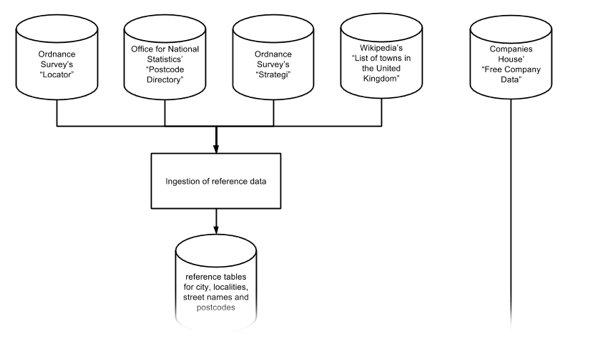
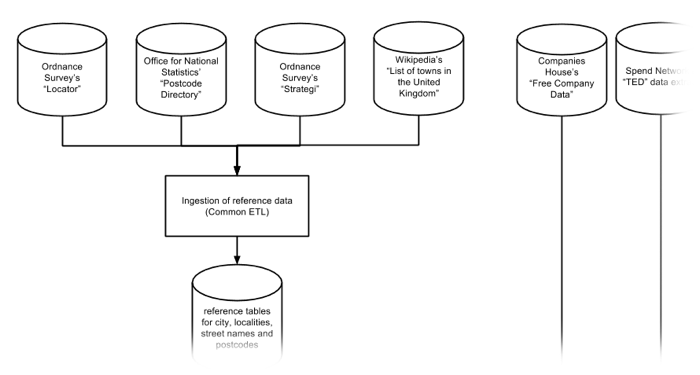
Revised documentation for Alpha-4

Changed region(s): [[0.0, 0.0296, 0.96, 0.9467]]

diff --git a/app/views/static/about/docs.md b/app/views/static/about/docs.md
@@ -3,9 +3,9 @@ title: Technology
 layout: default
 ---
 
-This document describes the Open Addresses solution for the *Alpha* stage. It was last updated on 12 December 2014.
+This document describes the Open Addresses solution for the *Alpha-4* phase (23 February 2015). It was last updated on 20 February 2015.
 
-The description follows the flow of data processing from its third party Open Data or public data sources down through the final Open Addresses database.
+The description follows the flow of data processing from its third party public domain or open data sources down through the final Open Addresses database.
 
 <%= link_to image_tag("docs/data_workflow_preview.png"), image_path("docs/data_workflow.png") %>
 
@@ -14,25 +14,28 @@ Click on the diagram to see the full version.
 ##Table of Contents
 
 - <a href='#sources'>Our sources of data</a>
-- <a href='#etls'>The ETL software modules ("Extract, Transform, Load")</a>
+- <a href='#etls'>The Submission APIs and the ETL software modules ("Extract, Transform, Load")</a>
+- <a href='#sortingoffice'>Sorting Office</a>
 - <a href='#ingester'>The Ingester software module</a>
 - <a href='#distiller'>The Distiller software module</a>
 - <a href='#publishingapis'>The publishing APIs</a>
 - <a href='#downloadable'>The downloadable Open Addresses database</a>
+- <a href='#validationapis'>The validation APIs</a>
 - <a href='#provenance'>How provenance is documented</a>
 
 <h2 id='sources'>Our sources of data</h2>
 
-Open Addresses uses two types of data:
+Open Addresses uses three types of data:
 
-- **reference data**, such as list of valid post towns or postcodes, and
-- **addresses**.
+- **reference data** of address "building blocks" such as post towns or postcodes,
+- **addresses**, and
+- **validation data**.
 
-All of the data that we use is either free of third-party Intellectual Property (IP) or is fully openly licensed. All provenance is tracked.
+All of the data that we use is either free of third-party Intellectual Property Rights (IPR) or is fully licensed as open data with no constraints but for attribution. This is to assure compatibility with the licence we apply to the data Open Addresses publishes, that is [CC-BY 4.0 International](https://creativecommons.org/licenses/by/4.0/). Some candidate sources of addresses could not be used as they included third party IP that is not openly licensed. Find out more about these challenges and how you can help add more data in [this blog post](https://alpha.openaddressesuk.org/blog/2015/01/26/making-address-data-safe) or on our [Get Involved](/about/involved/) page.
 
 ###Reference data
 
-For the Alpha phase we used four reference datasets:
+For the Alpha-4 phase we used four reference datasets for the addresses' "building blocks":
 
 - [Ordnance Survey's "OS Locator"](http://www.ordnancesurvey.co.uk/business-and-government/products/os-locator.html), from which we source our reference table of **road names**.
 - [Ordnance Survey's "Strategi"](http://www.ordnancesurvey.co.uk/business-and-government/products/strategi.html), from which we source our reference table of **settlements (localities)**.
@@ -40,52 +43,74 @@ For the Alpha phase we used four reference datasets:
 - The [Office for National Statistics' "ONS Postcode Directory (ONSPD)"](http://www.ons.gov.uk/ons/guide-method/geography/products/postcode-directories/-nspp-/index.html), from which we source our reference table of **postcodes**. Note that Northern Ireland's postcodes are dropped from the reference data as ["a separate licence for commercial use is required, direct from the Irish Land and Property Services"](http://www.ons.gov.uk/ons/guide-method/geography/beginner-s-guide/licences/index.html).
 
 ###Address data
-The current platform uses a single address dataset as its source: [Companies House's "Free Company Data Product"](http://download.companieshouse.gov.uk/en_output.html).
+Address data is either ingested from public domain/open data sources or submitted by our contributors, interactively or through APIs.
 
-Companies House's Free Company Data Product [does not include third party IP](https://www.whatdotheyknow.com/request/free_company_data_third_party_in).
+Alpha-4 uses two bulk sources for ingestion:
 
-Some other candidate sources of addresses could not be used as they included third party IP that is not openly licensed.
+- [Companies House's "Free Company Data Product"](http://download.companieshouse.gov.uk/en_output.html), and
+- An extract of [Spend Network's historical "TED" data](https://drive.google.com/folderview?id=0B46kGZDllbTKfjdMaU5OeXB2Qk1jaGhxNU9NUk5zRndlMDE3cWFTMF9YYnI1eXNHdmkyTUE&usp=sharing)
 
-Find out more about these challenges and how you can help add more data on our [Get Involved](/about/involved/) page.
+Both sources have been assessed not to include third party IP or to be appropriately licensed for re-use. In Company House's case, this was done throuh [FOI](https://www.whatdotheyknow.com/request/free_company_data_third_party_in).
+
+Our contributors can submit addresses interactively using our [website](https://openaddressesuk.org) or using the [Sorting Office](https://sorting-office.openaddressesuk.org/) APIs and website.
+
+###Validation data
+Validation data is collected from our contributors interactively using our website or through APIs. Anybody can state if one of the address we publish exists or not. This information is then used to calculate the confidence score we associate to each addreess or building blocks.
 
 ###Updating the data
-Each of the sources described above are currently maintained and updated regularly by their respective publishers. It can happen, though, that they do not account for recent changes, such as new streets. During Beta we will be updating the data on a daily basis.
+Apart from Spend Network's data, that was a one-off contribution, each of the sources described above are currently maintained and updated regularly by their respective publishers. It can happen, though, that they do not account for recent changes, such as new streets. During Beta we will be updating the reference data and bulk source data every time they are changed.
 
-It is important to note that, for Open Addresses' Alpha stage, we also decided to ignore addresses that cannot be matched against any of the reference tables. This approach will change during the Beta stage, when we will calculate mathematically the statistical confidence that can be placed in each  address and address component.
+It is important to note that, for the time being, we also decided to ignore addresses whose building blocks (towns, street names...) cannot be matched against their respective reference tables. This approach will change in [future developments](https://github.com/OpenAddressesUK/roadmap/issues/81).
 
-<h2 id='etls'>The ETL software modules</h2>
+<h2 id='etls'>The Submission APIs and the ETL software modules</h2>
 
 ###The Common ETL
-The reference data created from its sources described above by the software component we call *common ETL* (ETL as in "Extract, Transform, Load"). We consider the data highly reliable, hence it goes through minimal processing before being published by the platform.
+The reference data created from its sources described above by the software component we call *common ETL* (ETL as in "Extract, Transform, Load"). We consider the data highly reliable, hence it goes through minimal processing before being used by the platform.
 
-You are welcome to review or contribute to the current version of the Distiller on GitHub [here](https://github.com/OpenAddressesUK/common-ETL).
+You are welcome to review or contribute to the current version of the Common ETL on GitHub [here](https://github.com/OpenAddressesUK/common-ETL).
+
+###The submission APIs (Turbot)
+All ELTs but for the Common ETL described above run on a shared submission management platform implemented using Turbot: an open source software originally designed by [Open Corporates](https://opencorporates.com/) to manage their own data ingestion processes. Contributors can first develop and test their own ETLs "at home" and then deploy them to Turbot, where they will be verified by our team and scheduled to run periodically.
+
+For the time being, Open Addresses uses a fork of the original Turbot; it is our ambition to merge our effort with Open Corporates' later in time.
+
+You are welcome to review or contribute to the our version of Turbot on GitHub [here](https://github.com/OpenAddressesUK/turbot-client) for the command line client and [here](https://github.com/OpenAddressesUK/turbot-runner) for the "runner" component.
 
 ###The Companies House ETL
 The software component that is responsible for interpreting Companies House Free Company Data Product for use in Open Addresses is the *Companies House ETL*. The addresses are stored as "free text" in the source, so an important responsibility of the ETL is to decompose the addresses in their components and normalise each of the components vs the reference tables, wherever suitable. As described above, addresses that cannot be matched vs the reference tables are discarded.
 
-You are welcome to review or contribute to the current version of the Distiller on GitHub [here](https://github.com/OpenAddressesUK/common-ETL).
+You are welcome to review a past version of the Companies House ETL on GitHub [here](https://github.com/OpenAddressesUK/common-ETL). The software is currently being rewritten to run within Turbot.
+
+###Open Addresses' own inference “engine”
+Some ETLs can be dedicated to "inferrring" addresses rather than ingesting it from one source or another. [Inference is the process by which we infer the existence of addresses from data we have about _other_ addresses](https://openaddressesuk.org/blog/2015/02/12/inference). Open Addresses' own inference engine will soon implement a basic algorithm described [here](https://github.com/theodi/shared/issues/504#issuecomment-72818881) and potentially many inference implementations could be run in parallel as long as they are complementary to each other.
+
+<h2 id='sortingoffice'>Sorting Office</h2>
+Sorting Office is an independent software component we developed to provide address normalisation services internally to other Open Addresses software components but also externally, as an API. Users of Sorting Office can use it also to submit addresses as they normalise them.
 
 <h2 id='ingester'>The Ingester software module</h2>
 The Open Addresses solution is designed to support a distributed set of ETL modules in the future, many of which may not necessarily be owned directly by Open Addresses but contributed and operated by other individuals or organisations.
 
-The *Ingester* module - called internally "Ernest" in honour of Ernest Marples who was [postmaster general at the time of the introduction of postcodes in the UK](http://en.wikipedia.org/wiki/Ernest_Marples) - is the interface between Open Addresses and this *ecosystem* of contributing ETLs. It provides a (soon to be) public API through which registered ETL modules will be able to submit addresses programmatically to our database of address submissions. Our own Companies House ETL module is run as if it was one of these third parties ETLs.
+The *Ingester* module - called internally "Ernest" in honour of Ernest Marples who was [postmaster general at the time of the introduction of postcodes in the UK](http://en.wikipedia.org/wiki/Ernest_Marples) - is the interface between Open Addresses and this *ecosystem* of contributing ETLs running on Turbot and the custodian of our "raw database".
 
-During Beta we will publish instructions on how to run your own ETL and interface the Ingester. During Alpha, the Companies House ETL and the Open Addresses website itself (through the form on the homepage) are the only ETLs enabled to submit addresses to the Ingester.
+We call it *raw* as we cannot make (yet) any general assumption on the quality of the addresses that are submitted to us to this point, but just store them for later processing. The Ingester's database need to be effective at dealing with large volumes of loosely structured, incomplete and duplicate addresses submissions.
 
-Data submitted through the Ingester is stored in what we call the "raw database". It's *raw* as we cannot make (yet) any general assumption on the quality of the addresses that are submitted to us, but just store them for later processing. The Ingester's database need to be effective at dealing with large volumes of loosely structured, incomplete and duplicate addresses submissions.
-
-It is also important for the Ingester to manage different submissions as if they were 'transactions'. This is useful, for example, in case we had concerns around any of the submission - e.g. their intellectual property - so that we can 'quarantine' that data while any necessary due diligence is performed.
+It is also important for the Ingester to manage different submissions as if they were 'transactions'. This is useful, for example, in case we had concerns around any of the submission - e.g. any intellectual property not licensed for our use - so that we can take down that data while any necessary due diligence is performed.
 
 You are welcome to review or contribute to the current version of the Ingester on GitHub [here](https://github.com/OpenAddressesUK/ernest).
 
 <h2 id='distiller'>The Distiller software module</h2>
 The Distiller module 'distills' the raw database into the best possible consistent set of addresses we can produce at the moment of execution.
 
-For Alpha, this mainly means identifying duplicates. For example data from Companies House can include more than one company registered at the same addresses.
+For Alpha-4, this mainly means:
 
-In Beta the Distiller's role will become much more substantial. It will detect misspellings and alternative spellings; manage contradicting sources for the same addresses; calculate rigorous statistical confidence in each address; define the provenance record for the derived address data accordingly; and possibly even do cross-ETL inference. For example, can we infer the existence of an address from the existence of other addresses submitted by different ETL modules and what level of confidence should be placed on it?
+- identifying (most) duplicates; for example, data from Companies House can include more than one company registered at the same addresses, and
+- document the provenance for the data from all the relevant information in the raw database.
+
+In upcoming releases the Distiller's role will become much more substantial. It will detect misspellings and alternative spellings; manage contradicting sources for the same addresses; calculate [statistical scoring](https://openaddressesuk.org/blog/2015/02/20/confidence) for each address and its building blocks etc.
 
 The Distiller is also responsible for creating unique identifiers for each unique component of all known addresses so that they can be referenced in a linked data fashion and published accordingly.
+
+The Distiller is run every night to capture any address being submitted from non-bulk sources over the previous day.
 
 You are welcome to review or contribute to the current version of the Distiller on GitHub [here](https://github.com/OpenAddressesUK/distiller).
 
@@ -127,7 +152,7 @@ Open Addresses' own address for example is [http://alpha.openaddressesuk.org/add
 
 		http://alpha.openaddressesuk.org/addresses.json?town={town}&street={street}&postcode={postcode}
 
-The parameters must be expressed in the query string and encoded accordingly, e.g. as in [http://alpha.openaddressesuk.org/addresses.json?street=st+james%27+square&town=Cheltenham](http://alpha.openaddressesuk.org/addresses.json?street=st+james%27+square&town=Cheltenham). For Alpha the match must be exact; in Beta we will introduce partial matching and the management of alternative spellings. 
+The parameters must be expressed in the query string and encoded accordingly, e.g. as in [http://alpha.openaddressesuk.org/addresses.json?street=st+james%27+square&town=Cheltenham](http://alpha.openaddressesuk.org/addresses.json?street=st+james%27+square&town=Cheltenham). For Alpha the match must be exact; in Beta we will introduce partial matching and the management of alternative spellings.
 
 Browsing any of these URIs using a conventional Web browser will offer you a human-readable Web page of the data describing that address or address component. You can also request the data in JSON format, either by adding `.json` to the URI, or passing an `Accept: application/json` header in your request.
 
@@ -136,14 +161,19 @@ Downloadable versions of the Open Addresses database are available, too. See the
 
 The software module responsible for producing the downloadable versions has been named "Hippodamus" after [Hippodamus of Miletus](https://en.wikipedia.org/wiki/Hippodamus_of_Miletus): an ancient Greek architect, urban planner, physician, mathematician, meteorologist and philosopher commonly considered to be the 'father of urban planning'.
 
+At the moment of writing the development of Hippodamus is on hold while completing the delivery and testing of Turbot.
+
 You are welcome to review or contribute to the current version of the Hippodamus on GitHub [here](https://github.com/OpenAddressesUK/hippodamus/).
+
+<h2 id='validationapis'>The validation APIs</h2>
+The validation APIs allow users to produce the validation data described above. At the moment of writing the APIs are unconstrained and can be used from any third party application without the need for registration, e.g. by using this [sample code](https://openaddressesuk.org/assets/validate_address.js).
 
 <h2 id='provenance'>How provenance is documented</h2>
 Given the sensitiveness of the intellectual property matters surrounding address data in the UK, it is critical for Open Addresses to work fully in the open and to document in detail how our data is created or derived from its sources.
 
 [All of our source code is published on GitHub](https://github.com/openaddressesuk) and the data we publish is available for distribution in formats that include sufficient provenance information to fully assess its origin. It is our ambition to give anybody the means to reproduce all of our work.
 
-The typical provenance information associated to each address can be seen in the JSON code below, that is the provenance of Open Addresses' own address [http://alpha.openaddressesuk.org/addresses/ODK23N.json](http://alpha.openaddressesuk.org/addresses/ODK23N.json). It references the exact source code that was run and the data sources that were used, and when the data processing and the download took place.
+The typical provenance information associated to each address can be seen in the JSON code below, that is the provenance of Open Addresses' own address [https://openaddressesuk.org/addresses/ODK23N.json](https://openaddressesuk.org/addresses/ODK23N.json). It references the exact source code that was run and the data sources that were used, and when the data processing and the download took place.
 
 	"provenance":{
 		"activity":{
